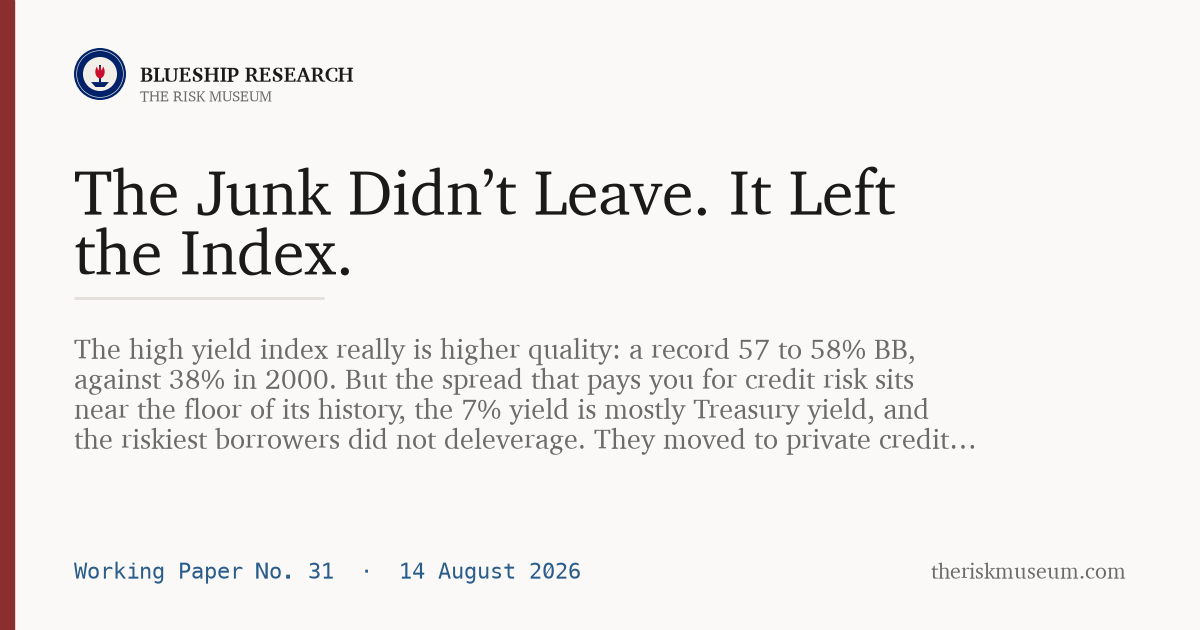
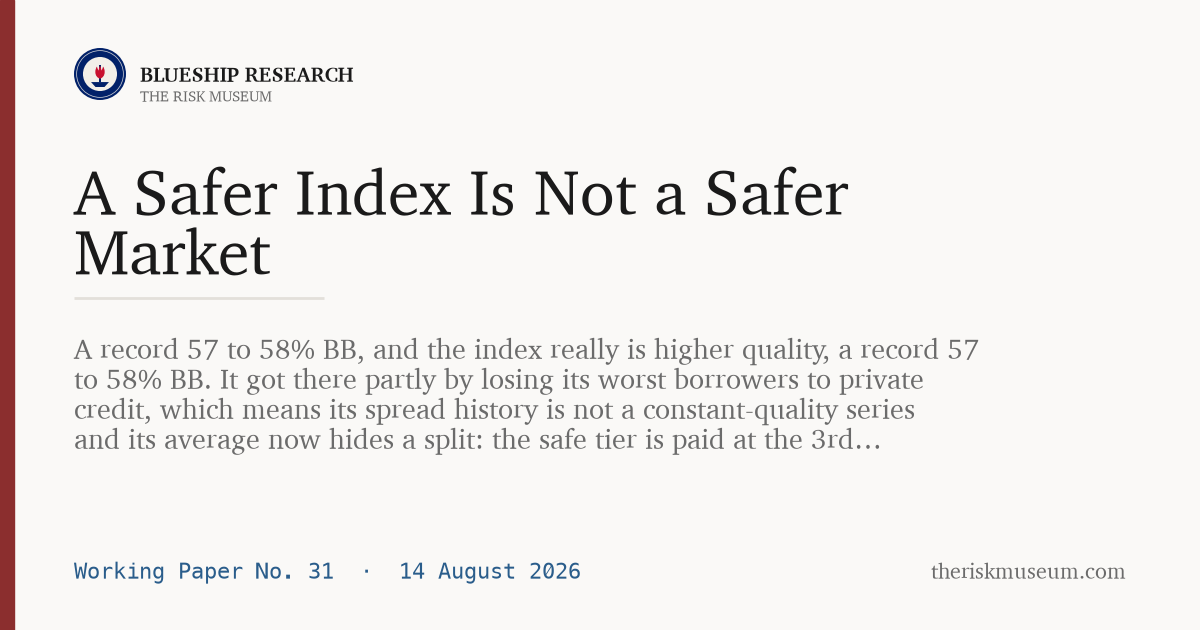
graveyard update 2026-08-17

Changed region(s): [[0.0617, 0.5429, 0.8017, 0.7238], [0.0617, 0.2714, 0.74, 0.4524]]

diff --git a/notes/junk-left-the-index.html b/notes/junk-left-the-index.html
@@ -1,6 +1,6 @@
 <!doctype html><html lang="en"><head>
 <meta charset="utf-8"><meta name="viewport" content="width=device-width, initial-scale=1">
-<title>The Junk Didn&rsquo;t Leave. It Left the Index. &middot; Working Paper No. 31</title>
+<title>A Safer Index Is Not a Safer Market &middot; Working Paper No. 31</title>
 <meta name="description" content="High yield's marketers are right that the index got safer: BB bonds are a record 57 to 58% of the US market. They are wrong about what that is worth. The credit spread sits near the floor of its history, the 7% yield is mostly Treasury yield, the CCC tier is repricing violently, and the riskiest borrowers moved to private credit, where no daily spread prints. The junk left the index, not the market.">
 <link rel="canonical" href="https://theriskmuseum.com/notes/junk-left-the-index.html">
 <link rel="icon" href="/favicon.svg" type="image/svg+xml">
@@ -232,7 +232,7 @@ footer { max-width:912px; margin:3rem 0 0; padding-top:1.3rem;
 <!-- social:start -->
 <meta property="og:type" content="article">
 <meta property="og:site_name" content="The Risk Museum">
-<meta property="og:title" content="The Junk Didn&rsquo;t Leave. It Left the Index. &middot; Working Paper No. 31">
+<meta property="og:title" content="A Safer Index Is Not a Safer Market &middot; Working Paper No. 31">
 <meta property="og:description" content="High yield's marketers are right that the index got safer: BB bonds are a record 57 to 58% of the US market. They are wrong about what that is worth. The credit spread sits near the floor of its history, the 7% yield is mostly Treasury yield, the CCC tier is repricing violently, and the riskiest borrowers moved to private credit, where no daily spread prints. The junk left the index, not the market.">
 <meta property="og:url" content="https://theriskmuseum.com/notes/junk-left-the-index.html">
 <meta property="og:image" content="https://theriskmuseum.com/cards/note-junk-left-the-index.png">
@@ -240,12 +240,12 @@ footer { max-width:912px; margin:3rem 0 0; padding-top:1.3rem;
 <meta property="og:image:height" content="630">
 <meta name="twitter:image" content="https://theriskmuseum.com/cards/note-junk-left-the-index.png">
 <meta name="twitter:card" content="summary_large_image">
-<meta name="twitter:title" content="The Junk Didn&rsquo;t Leave. It Left the Index. &middot; Working Paper No. 31">
+<meta name="twitter:title" content="A Safer Index Is Not a Safer Market &middot; Working Paper No. 31">
 <meta name="twitter:description" content="High yield's marketers are right that the index got safer: BB bonds are a record 57 to 58% of the US market. They are wrong about what that is worth. The credit spread sits near the floor of its history, the 7% yield is mostly Treasury yield, the CCC tier is repricing violently, and the riskiest borrowers moved to private credit, where no daily spread prints. The junk left the index, not the market.">
 <!-- social:end -->
 </head><body>
 <!-- share:start -->
-<div class="sharebox"><b>Share this page</b><a href="https://www.linkedin.com/sharing/share-offsite/?url=https%3A%2F%2Ftheriskmuseum.com%2Fnotes%2Fjunk-left-the-index.html" target="_blank" rel="noopener">LinkedIn</a><a href="mailto:?subject=The%20Junk%20Didn%26rsquo%3Bt%20Leave.%20It%20Left%20the%20Index.%20-%20Working%20Paper%20No.%2031&amp;body=Worth%20a%20read%3A%20https%3A//theriskmuseum.com/notes/junk-left-the-index.html">Email</a><button type="button" onclick="var b=this;(navigator.clipboard?navigator.clipboard.writeText(location.href):Promise.reject()).then(function(){b.textContent='Copied'}).catch(function(){window.prompt('Copy this link:',location.href)})">Copy link</button></div>
+<div class="sharebox"><b>Share this page</b><a href="https://www.linkedin.com/sharing/share-offsite/?url=https%3A%2F%2Ftheriskmuseum.com%2Fnotes%2Fjunk-left-the-index.html" target="_blank" rel="noopener">LinkedIn</a><a href="mailto:?subject=A%20Safer%20Index%20Is%20Not%20a%20Safer%20Market%20-%20Working%20Paper%20No.%2031&amp;body=Worth%20a%20read%3A%20https%3A//theriskmuseum.com/notes/junk-left-the-index.html">Email</a><button type="button" onclick="var b=this;(navigator.clipboard?navigator.clipboard.writeText(location.href):Promise.reject()).then(function(){b.textContent='Copied'}).catch(function(){window.prompt('Copy this link:',location.href)})">Copy link</button></div>
 <!-- share:end -->
 <div class="topbar">
 <!-- brand:start -->
@@ -261,13 +261,13 @@ footer { max-width:912px; margin:3rem 0 0; padding-top:1.3rem;
 </div>
 <a class="tearmark" href="https://www.linkedin.com/in/vasiliosdimopoulos/" target="_blank" rel="noopener"><b>Get in touch</b><i>Reach out on LinkedIn</i></a>
 <div class="hero"><div class="hero-in">
-<div class="eyebrow">Working Paper No. 31 &middot; 14 August 2026 &middot; a measurement of what the quality shift costs</div>
-<h1>The Junk Didn&rsquo;t Leave. It Left the Index.</h1>
-<p class="lede">The high yield index really is higher quality: a record 57 to 58% BB, against 38% in 2000. But the spread that pays you for credit risk sits near the floor of its history, the 7% yield is mostly Treasury yield, and the riskiest borrowers did not deleverage. They moved to private credit, where no daily spread prints.</p>
+<div class="eyebrow">Working Paper No. 31 &middot; 14 August 2026 &middot; when a benchmark changes composition underneath its own history</div>
+<h1>A Safer Index Is Not a Safer Market</h1>
+<p class="lede">A record 57 to 58% BB, and the index really is higher quality, a record 57 to 58% BB. It got there partly by losing its worst borrowers to private credit, which means its spread history is not a constant-quality series and its average now hides a split: the safe tier is paid at the 3rd percentile of three years, the risky tier at the 97th.</p>
 <div class="who"><b>V. Dimopoulos</b> &nbsp;&middot;&nbsp; BlueShip Research</div>
 </div></div>
 <main><div class="article-body">
-<p class="abstract"><span class="lab">Abstract.</span> High yield&rsquo;s marketers are right that the index got safer: BB-rated bonds are now a record 57 to 58% of the US market, against 38% in 2000. They are wrong about what that is worth. The spread investors are paid for credit risk sits near the floor of its history, the "attractive" 7% yield is mostly Treasury yield wearing a credit costume, and the riskiest tier of the index is not tight at all; it is repricing violently. Most importantly, a large part of the quality improvement is a change of address: the riskiest borrowers did not deleverage, they moved to private credit and leveraged loans, where no daily spread prints. Quality is up, compensation is near record lows, and the risk that left the index still exists. It just moved to where you cannot see it.</p>
+<p class="abstract"><span class="lab">Abstract.</span> High yield&rsquo;s marketers are right that the index got safer: BB-rated bonds are now a record 57 to 58% of the US market, against 38% in 2000 and roughly that level through the pre-Lehman era, so the comparison is with the old normal rather than with one unusual year. They are wrong about what the shift is worth, and a researcher should be wary of the series that records it: an index whose weakest constituents migrate elsewhere does not measure the asset class, it measures what stayed. The spread investors are paid for credit risk sits near the floor of its history, the "attractive" 7% yield is mostly Treasury yield wearing a credit costume, and the riskiest tier of the index is not tight at all; it is repricing violently. Most importantly, a large part of the quality improvement is a change of address: the riskiest borrowers did not deleverage, they moved to private credit and leveraged loans, where no daily spread prints. Quality is up, compensation is near record lows, and the risk that left the index still exists. It just moved to where you cannot see it.</p>
 
 <h2>1. The claim, verified</h2>
 <p>A recent KKR piece argues high yield has outgrown its junk-bond reputation: 57% BB in the US, 68% in Europe, duration near a 15-year low, call protection as a bonus. The composition numbers check out against independent index data, and the duration claim is conservative: at roughly 3.0 years against a long-run average near 4, it is arguably a record low, not a 15-year one. The facts are right. The conclusion does not follow.</p>

diff --git a/notes/index.html b/notes/index.html
@@ -291,7 +291,7 @@ footer { max-width:912px; margin:3rem 0 0; padding-top:1.3rem;
 <span class="tc-stat">4,809 out-of-sample forecasts &middot; the 2009 benchmark wins 21 of 21 &middot; Diebold-Mariano t = -12.4</span></a>
 <a class="top-card" href="junk-left-the-index.html">
 <span class="tc-meta">Working Paper No. 31 &middot; credit</span>
-<h2>The Junk Didn&rsquo;t Leave. It Left the Index.</h2>
+<h2>A Safer Index Is Not a Safer Market</h2>
 <p>The high-yield index really is higher quality, a record 57 to 58% BB. But the index spread that pays for credit risk sits at its 9th percentile of the last three years, the BB tier at its 3rd, the CCC tier at its 97th, and the riskiest borrowers moved to leveraged loans and a $2.1 trillion private credit market where no daily spread prints. The four headline rows are re-derived from FRED data; the long-run anchors are attributed to their sources, in direct dialogue with KKR&rsquo;s own August 2026 high-yield piece.</p>
 <span class="tc-stat">BB spread 160bp, 3rd percentile of three years &middot; CCC 1,024bp, 97th &middot; private credit $158bn to $2.1tn since 2010</span></a>
 </div>
@@ -332,7 +332,7 @@ footer { max-width:912px; margin:3rem 0 0; padding-top:1.3rem;
 <path d="M44 20 56 20 56 44 44 44" stroke="var(--accent)" stroke-width="2" stroke-dasharray="3 3"/>
 <line x1="38" y1="32" x2="46" y2="32" stroke="var(--accent)" stroke-width="2"/>
 <path d="M43 29 47 32 43 35" stroke="var(--accent)" stroke-width="2" fill="none"/>
-</svg><span class="mtile-meta">WP 31 &middot; RISK</span><span class="mtile-t">The Junk Didn&rsquo;t Leave. It Left the Index.</span><span class="mtile-s">compensation, measured</span></a>
+</svg><span class="mtile-meta">WP 31 &middot; RISK</span><span class="mtile-t">A Safer Index Is Not a Safer Market</span><span class="mtile-s">compensation, measured</span></a>
 <a class="mtile" href="what-remains-of-pairs-trading.html" data-cat="testing"><svg class="mtile-icon" width="64" height="64" viewBox="0 0 64 64" fill="none" xmlns="http://www.w3.org/2000/svg" aria-hidden="true">
 <path d="M8 20 Q20 14 32 22 Q44 30 56 24" stroke="var(--muted)" stroke-width="2"/>
 <path d="M8 34 Q20 40 32 30 Q44 22 56 30" stroke="var(--blue)" stroke-width="2"/>
@@ -601,7 +601,7 @@ regime. The mechanism stands, in the minutes daily bars cannot see.</p></div></a
 <line x1="38" y1="32" x2="46" y2="32" stroke="var(--accent)" stroke-width="2"/>
 <text x="6" y="60" font-size="7" fill="var(--muted)" font-family="Georgia,serif">160bp at BB</text>
 </svg>
-<div class="note-body"><h2>The Junk Didn&rsquo;t Leave. It Left the Index.</h2>
+<div class="note-body"><h2>A Safer Index Is Not a Safer Market</h2>
 <p>V. Dimopoulos &middot; Working Paper No. 31 &middot; Aug 14, 2026 &middot;
 The high yield index really is higher quality, a record 57 to 58% BB. But the
 spread that pays you for credit risk is near its floor, the 7% yield is mostly
